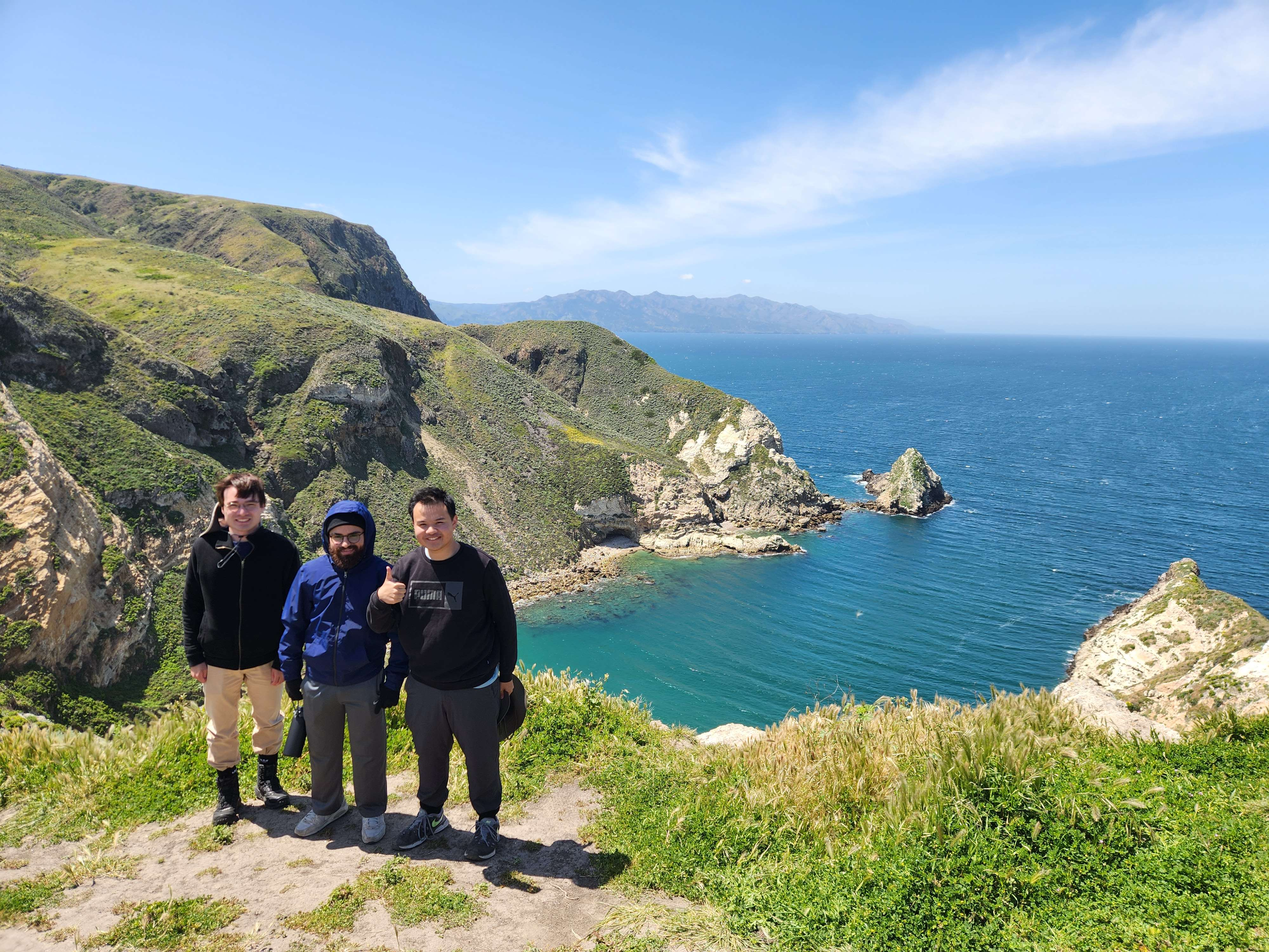
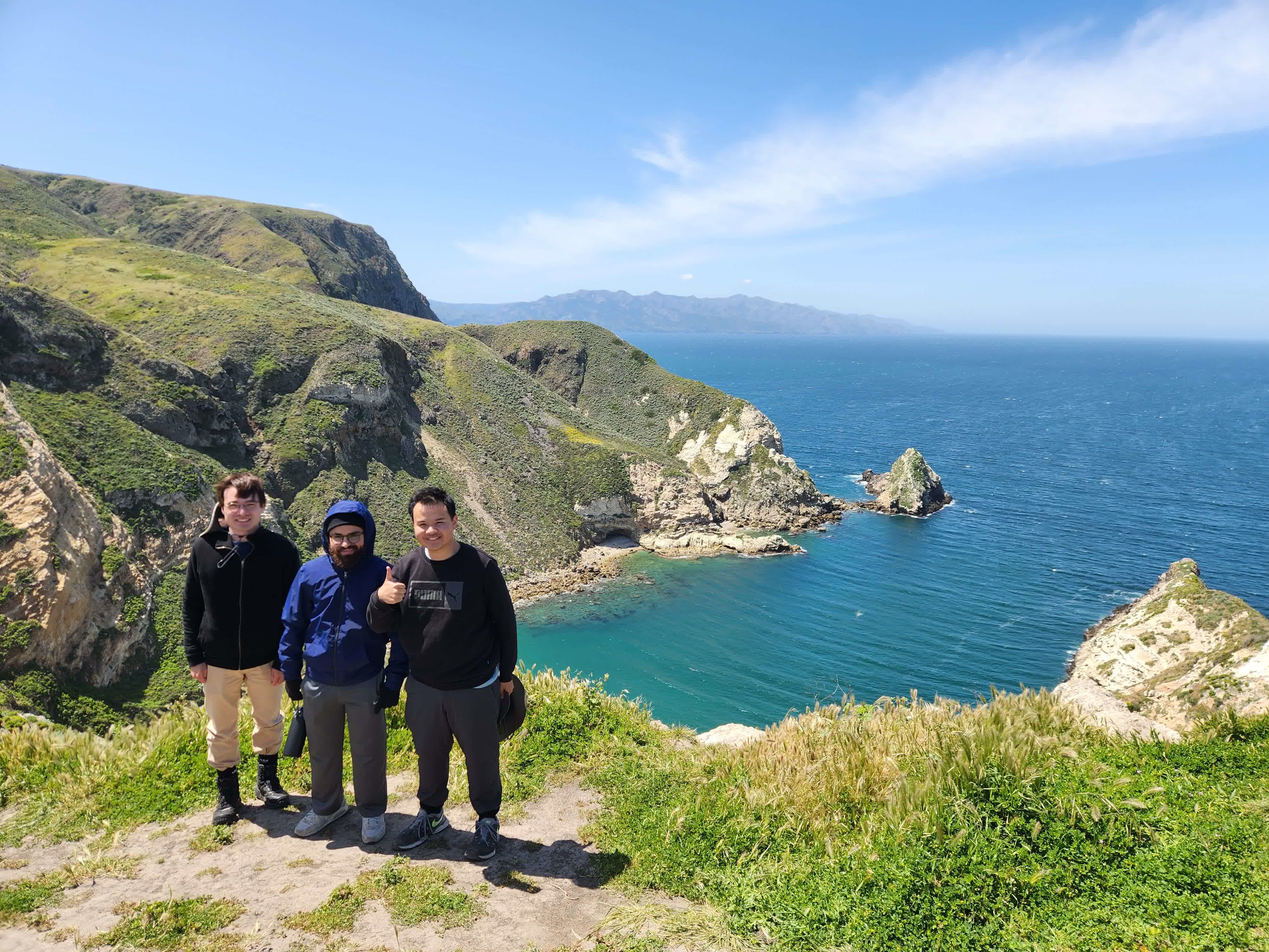
Finished JOMU

diff --git a/NPS/blogs/JohnMuir.html b/NPS/blogs/JohnMuir.html
@@ -35,8 +35,8 @@
 
 	<div id="thoughtContainer">
 		<h2>Thoughts on the Park</h2>
-		<p id="thoughts">John Muir was one of those parks that were so close yet also far away at the same time. It took around 90 mins to commute from my hometown in San Jose! We had to reserve parking a day in advance, so be prepared if you are willing to go! We got there around 8 AM, and the weather was very cloudy and misty! We paid for the admission at the gate, and it was pretty straight forward! The America the Beautiful allows for three guests to enter! </p>
-		<p id="thoughts"> Going into the park, we were greated with some fresh hot chocolate and coffee at the shop (John Muir T.C.) near the Cathedral Grove! It was well needed before our hiking expedition. After the refreshments, we hiked the Bohemian Grove trail loop, which also encompasses the Redwood Creek trail. The gushing rivers with the serenity of the tall redwoods especially around the cathedral. The quient ambience, surrounding by the wildlife (including the Bannana Slugs). After hiking, I did my pledge at the visitor center (which I got to see the insides of)! I enjoyed the leaf sketching activity the most in the JR book. The ranger was super nice and answered all my questions about how tall and old the trees were. Overall, I would visit again for frequent hiking with my friends and family.
+		<p id="thoughts">I couldn't believe I didn't visit John Muir's former home any sooner! Located in Martinez, it's only an hour drive from San Jose (given without traffic). They allow for reserving tours to go to John Muir's gravesite, which my family did! Unfournately, we didn't make it to the tour ontime, and we couldn't see the graveyard, or so we thought? </p>
+		<p id="thoughts">Upon arriving at the site, we were greeted by the view of John Muir's historic house overviewing the roads of Matrinez. Coincidentally, it just so happens that one of the local rangers, Ranger Wendy, was available to give a private tour, even though we came late! The scenic drive to John Muir's gravesite was nice, surrounded by orchards maintained by the community. Sometimes during harvesting season, they actually allow the locals to take some of the produce home! Afterwards, we visited the home of John Muir where I went up to the watchtower to overview the whole estate. Golden Hour is so nice up there! Finally, to end the tour, my family and I walked around John Muir's estate. The pledge before leaving is amazing, as always!</p>
         </p>
 	</div>
 
@@ -46,8 +46,8 @@
 	</div>
 
 	<div id="rating">
-		<h2>Rating: 8/10</h2>
-		<div id="ratingStars"><h1>⭐⭐⭐⭐⭐⭐⭐⭐</h1></div>
+		<h2>Rating: 9/10</h2>
+		<div id="ratingStars"><h1>⭐⭐⭐⭐⭐⭐⭐⭐⭐</h1></div>
 	</div>
 
 	<div id="pledge">

diff --git a/NPS/index.html b/NPS/index.html
@@ -18,7 +18,7 @@
 	<h1>🦅<a href="https://timothydo.me/TheDoVlogs">TheDoVlogs</a> (Timothy's) Series: Exploring U.S. National Parks 🦅</h1>
 	
 	<figure>
-		  <a href="./pictures/favorite.png"><img id="favorite" class="inline"  src="./pictures/favorite.png"></img></a><br>
+		  <a href="./pictures/favorite.jpg"><img id="favorite" class="inline"  src="./pictures/favorite.jpg"></img></a><br>
 		  <figcaption>Smiling at Bryce Canyon (~08/2021)</figcaption>
 	</figure>
 
